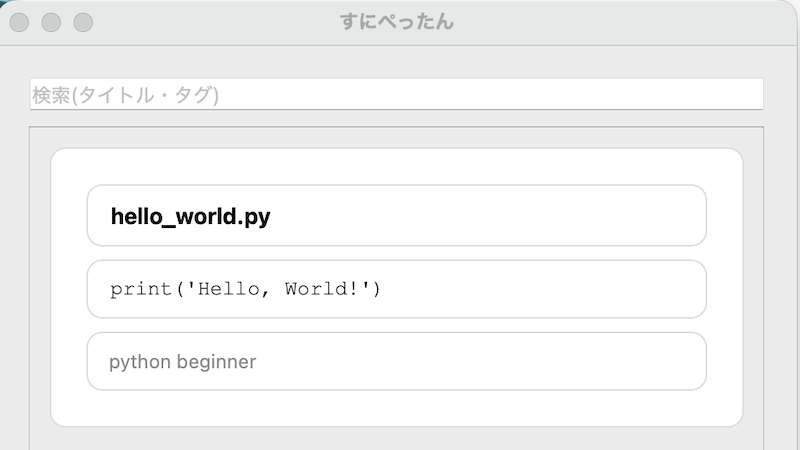
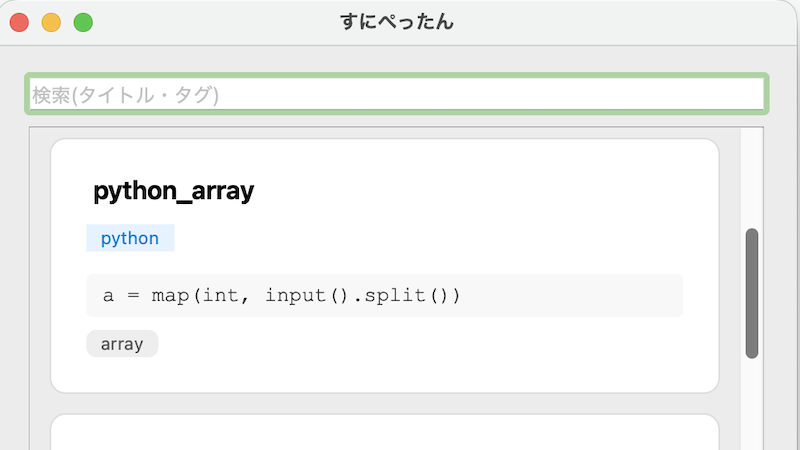
文書スキルと、すにぺったんのスクショを更新

diff --git a/index.html b/index.html
@@ -51,6 +51,14 @@
                 <span class = "tag">JavaScript</span>
                 <span class = "tag">p5.js</span>
             </a>
+            <a href = "https://github.com/tdtiger/Snippettan" class = "card">
+                <img src = "img/snippettan.png" alt = "Snippettan" class = "card-image">
+                <h3>すにぺったん</h3>
+                <p>コードスニペット管理用アプリ。</p>
+                <br>
+                <span class = "tag">Python</span>
+                <span class = "tag">PyQt6</span>
+            </a>
             <a href = "https://github.com/tdtiger/PairMatching" class = "card">
                 <img src = "img/pair.png" alt = "PairMatching" class = "card-image">
                 <h3>Pair Matching</h3>
@@ -73,14 +81,6 @@
                 <br>
                 <span class = "tag">Ruby</span>
                 <span class = "tag">Gosu</span>
-            </a>
-            <a href = "https://github.com/tdtiger/Snippettan" class = "card">
-                <img src = "img/snippettan.png" alt = "Snippettan" class = "card-image">
-                <h3>すにぺったん（製作中）</h3>
-                <p>コードスニペット管理用アプリ。</p>
-                <br>
-                <span class = "tag">Python</span>
-                <span class = "tag">PyQt6</span>
             </a>
         </div>
         </section>
@@ -118,10 +118,22 @@
             </div>
         </div>
         <div class = "skill-group">
+            <h3>文書</h3>
+            <div class = "tags">
+                <span class = "tag">LaTeX</span>
+                <span class = "tag">Markdown</span>
+            </div>
+        </div>
+        <div class = "skill-group">
+            <h3>データベース</h3>
+            <div class = "tags">
+                <span class = "tag">PostgreSQL</span>
+            </div>
+        </div>
+        <div class = "skill-group">
             <h3>その他</h3>
             <div class = "tags">
                 <span class = "tag strong">Unity</span>
-                <span class = "tag">NoSQL</span>
             </div>
         </div>
         </section>
